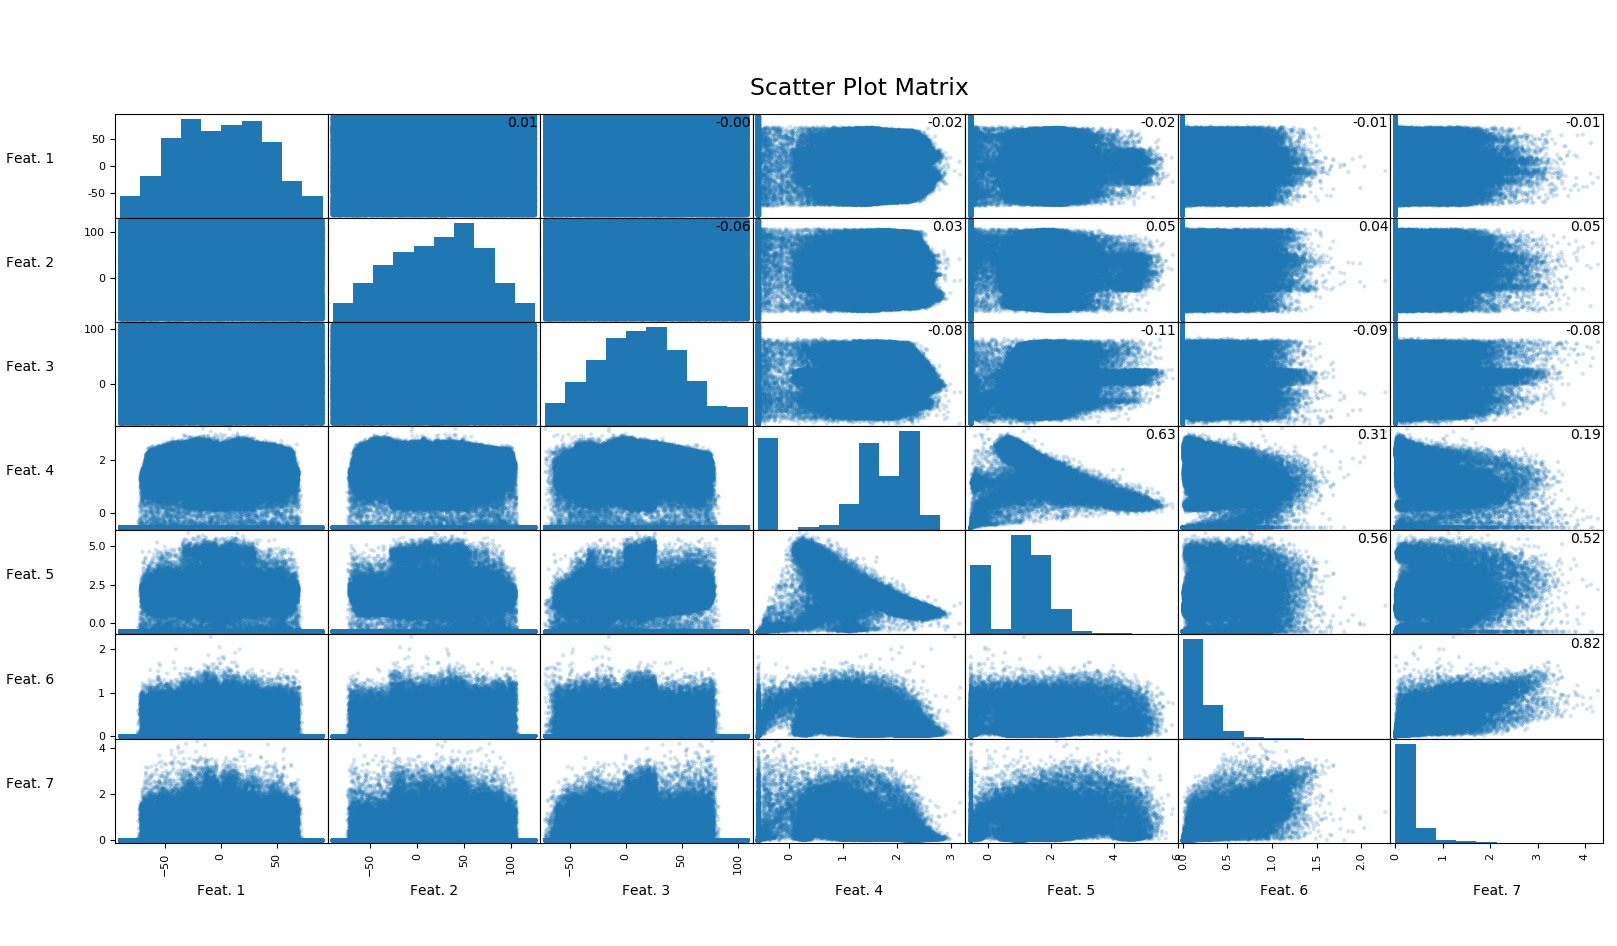
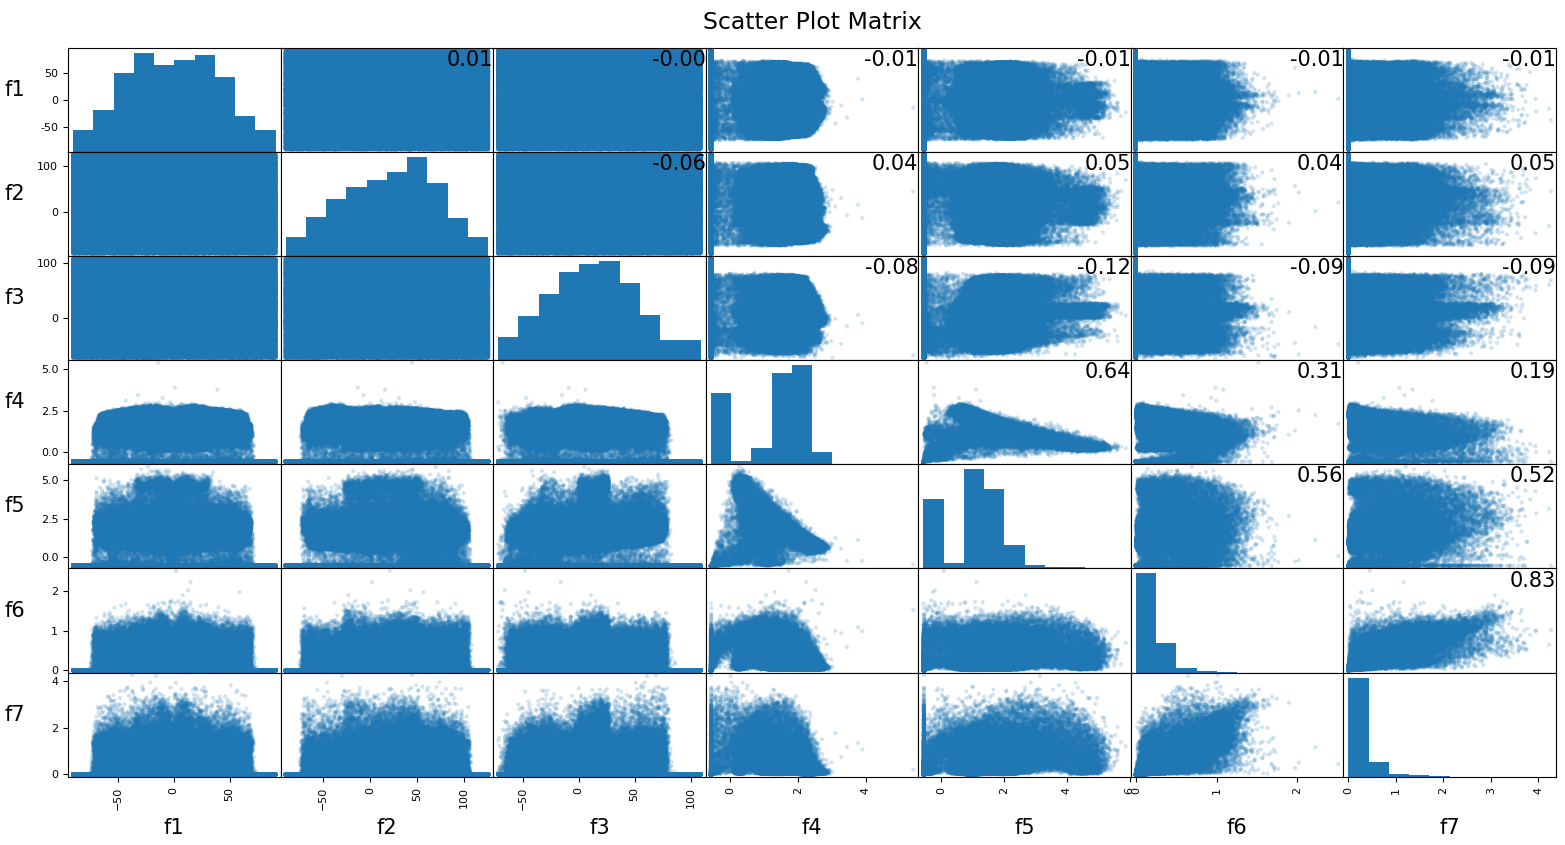
tex: added method about DF, new scatter plot

diff --git a/tex/mialab.tex b/tex/mialab.tex
@@ -68,14 +68,22 @@ Finally, the classification is evaluated based on a comparison with the ground t
 The medical image analysis pipeline is implemented in Python using scikit-learn~\cite{pedregosa2011scikit} and ITK~\cite{yoo2002engineering}.
 
 \subsection{Decision Forest (DF)}
-\TODO{MM: \textbf{Short} intro to DF, ref to \ref{f.df_gridsearch}, mention 80 trees and 3000 max nodes}
+The Decision Forest is an algorithm for supervised regression and classification tasks. A DF is an ensemble, which consist of many decision trees. A schematically example of a decision tree is visualized in Fig~(\ref{f.df}). Each tree starts from top to bottom with a single root node and splits in two after every node. Each branch represent one feature of the dataset, every feature can be used in a different branch at any level of the tree. The leaf nodes at the bottom are the resulting predictors. The depth of the trees can be regulated by the chosen number of tree nodes. High numbers of trees improve the accuracy until a certain point, but increases also the time consumption. \TODO{complete Mike}
+
+\begin{figure}[h!]
+	\centering
+	\includegraphics[width=0.35\textwidth]{images/DF}
+	\caption{Schematically illustration example of a single decision tree}\label{f.df}
+\end{figure}
+
+
+The hyperparameters were determined by a individual grid search on the train date for the white matter, grey matter and cerebrospinal fluid. Visualized in Fig~(\ref{f.df_gridsearch}) are the results of the grid search for different number of nodes and trees, marked with a red cross. Unfortunately, it was not possible to achieve the best fit in every of three tissue types with the same hyperparameters. Therefore the chosen result of 160 trees and 3000 nodes was a trade off.
 
 \begin{figure}[h!]
 	\centering
 	\includegraphics[width=0.48\textwidth]{images/df_grid}
 	\caption{DF plot of grid search for white matter, grey matter and cerebrospinal fluid. The red cross marks the chosen hyperparameters number of trees~=~160 and maximum nodes per tree~=~3000. Color does not represent dice, the data is stretched individually for all three plots.}\label{f.df_gridsearch}
 \end{figure}
-
 
 \subsection{k-Nearest Neighbors (kNN)}
 The k-Nearest Neighbors algorithm does not construct a general model, however stores instances of the training data. A query point is assigned to a certain class based on the votes, which come from the nearest neighbors of the point. A weight function assigns a weight which is inverse proportional to its distance to the point. The characteristics of kNN lead to a relatively low training time, and a rather high computation time for new points, depending on the amount of neighbors defined to vote. A hyperparameter search was conducted for the k-value. The higher k, the better the overall dice with the drawback of a higher computation time. A value of $k=20$ was found to be fast with only little trade-off in computation time.
@@ -186,29 +194,28 @@ For DF, kNN and SGD, the testing time is independent of the amount of training d
 
 %Feature selection is another key part of the machine learning process. Features are also called variable or attribute and describe the model. Irrelevant and redundant features do not contribute to the accuracy of the predictive model, at worst they decrease the accuracy. The used feature set consists of seven features, f1-f3: Coordinate features, f4: T1 intensity, f5: T1 gradient, f6: T2 intensity, f7: T2 gradient. 
 
-
 The following Fig~(\ref{scatterplot}) shows the scatter matrix of all the features. The whole dataset of 100 images was used for this evaluation. On the diagonal are the histograms to visualize the data distribution of each feature. The first three histograms are of the coordinate features and are normally distributed. The fifth and sixth histograms belong to the intensity features and follow a non normal distribution. The last two histograms are of the gradient features and are half normal distributed. The right upper part of the diagonal visualizes the linear correlation between each of the feature with the associated correlation coefficient. The left bottom part of the diagonal is redundant to the upper part. 
 
-The coordinate features with an correlation coefficient between -0.11 and 0.05 are independent and do not correlate with any other feature at all. The first intensity feature has a moderate linear relationship with the second intensity feature and a weak with the first gradient feature. The second intensity feature has also a moderate correlation with both of gradient features. The gradient features correlate with an correlation coefficient of 0.82 very strong among themselves.    
+The coordinate features with an correlation coefficient between -0.12 and 0.05 are independent and do not correlate with any other feature at all. The first intensity feature has a moderate linear relationship with the second intensity feature and a weak with the first gradient feature. The second intensity feature has also a moderate correlation with both of gradient features. The gradient features correlate with an correlation coefficient of 0.83 very strong among themselves.
 
-\TODO{Change label in ScatterMatrixPlot, Mike}
 
 \begin{figure}[h]
 	\centering
-	\includegraphics[width=0.49\textwidth]{images/ScatterPlotMatrix}
-	\caption{Scatter plot of the features with correlation coefficient}
+	\includegraphics[width=0.48\textwidth]{images/ScatterPlotMatrix}
+	\caption{Scatter plot of the features with associated correlation coefficient}
 	\label{scatterplot}
 \end{figure}
 
 The following Fig~(\ref{FeatEval}) visualizes the influence of each feature type and the used algorithms. The feature types are divided in three coordinate, two intensity and two gradient features. The first column in this figure is calculated with all the features combined and is considered as a reference. Each column belongs to a single feature type in which the dice of the four used algorithms is visualized. Vertically in line is each dice for the gray matter, white matter and the cerebrospinal fluid disposed.
 
-\TODO{Describe the plot, insert Legend of W, V or C? in figure 3, Mike}
+\TODO{Describe the plot, insert Legend of W, V or C? in figure 3, Mike, still waiting on one SVM}
 \begin{figure}[h]
 	\centering
 	\includegraphics[width=0.49\textwidth]{images/FeatureEvaluation}
 	\caption{Feature evaluation of single features with different algorithms, preprocessed.}
 	\label{FeatEval}
 \end{figure}
+
 
 
 
